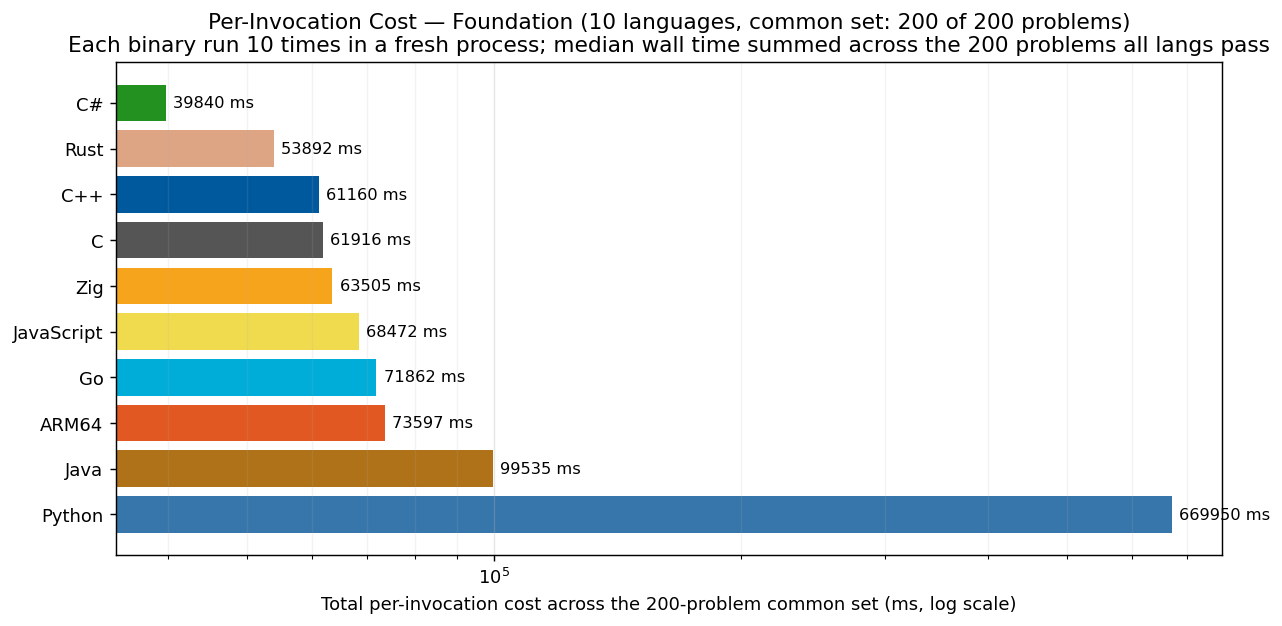
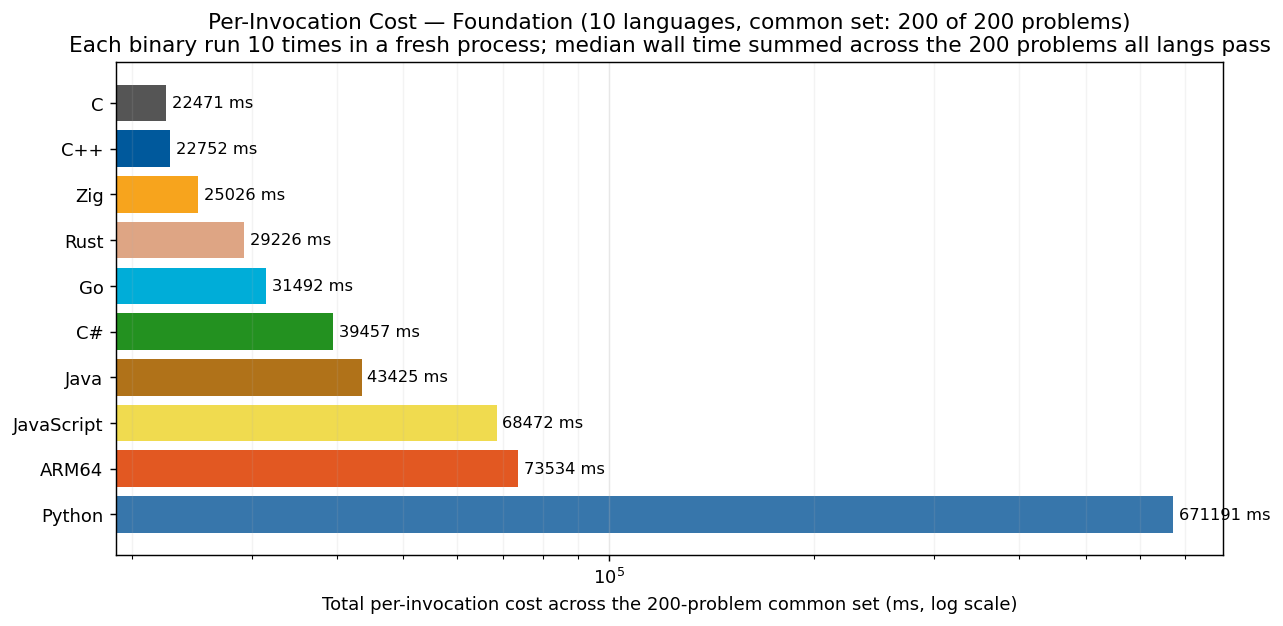
publish: p170 rewritten in 7 langs with JS-derived smart algorithm (descending-pandigital + sqrt-bounded divisor enum); 25-56s brute force → 4-10ms across the board (~8000× speedup); cross-lang answer 9857164023 verified

diff --git a/RESULTS.md b/RESULTS.md
@@ -25,16 +25,16 @@ covered ones.
 
 | Rank | Language | Total (200-problem common set) | Lines of code | vs Fastest |
 |------|----------|--------------------:|--------------:|-----------:|
-| 1 | **C#** | 39.84 s | 10,974 | 1.00× |
-| 2 | **Rust** | 53.89 s | 11,633 | 1.35× |
-| 3 | **C++** | 61.16 s | 10,390 | 1.54× |
-| 4 | **C** | 61.92 s | 14,488 | 1.55× |
-| 5 | **Zig** | 63.51 s | 13,559 | 1.59× |
-| 6 | **JavaScript** | 68.47 s | 9,310 | 1.72× |
-| 7 | **Go** | 71.86 s | 13,313 | 1.80× |
-| 8 | **ARM64** | 73.60 s | 40,336 | 1.85× |
-| 9 | **Java** | 99.54 s | 10,621 | 2.50× |
-| 10 | **Python** | 669.95 s | 8,544 | 16.82× |
+| 1 | **C** | 22.47 s | 14,524 | 1.00× |
+| 2 | **C++** | 22.75 s | 10,369 | 1.01× |
+| 3 | **Zig** | 25.03 s | 13,474 | 1.11× |
+| 4 | **Rust** | 29.23 s | 11,614 | 1.30× |
+| 5 | **Go** | 31.49 s | 13,225 | 1.40× |
+| 6 | **C#** | 39.46 s | 11,019 | 1.76× |
+| 7 | **Java** | 43.42 s | 10,611 | 1.93× |
+| 8 | **JavaScript** | 68.47 s | 9,310 | 3.05× |
+| 9 | **ARM64** | 73.53 s | 40,336 | 3.27× |
+| 10 | **Python** | 671.19 s | 8,558 | 29.87× |
 
 ### Speed vs Code Size
 

diff --git a/per_problem/per_problem_101-200.md b/per_problem/per_problem_101-200.md
@@ -76,7 +76,7 @@ column per language in tier-1 display order (native → managed → interpreted)
 | **p167** | 129.05 ms | 122.85 ms | 127.29 ms | 126.88 ms | 138.54 ms | 130.05 ms | 139.25 ms | 161.03 ms | 236.92 ms | 7.37 s |
 | **p168** | 32.0 µs | 25.5 µs | 21.7 µs | 31.5 µs | 27.3 µs | 33.1 µs | 248.5 µs | 197.8 µs | 274.0 µs | 533.3 µs |
 | **p169** | 1.0 µs | 167 ns | 208 ns | 2.0 µs | 208 ns | 10.7 µs | 411.8 µs | 533.3 µs | 40.0 µs | 13.9 µs |
-| **p170** | 39.50 s | 39.45 s | 38.41 s* | 24.67 s* | 38.48 s | 40.38 s | 392.34 ms* | 56.12 s* | 7.70 ms* | 357.90 ms |
+| **p170** | 39.43 s | 4.92 ms | 4.26 ms | 4.63 ms | 4.06 ms | 5.25 ms | 8.66 ms | 7.02 ms | 7.59 ms | 1.60 s |
 | **p171** | 2.90 ms | 1.46 ms | 2.05 ms | 2.20 ms | 2.14 ms | 3.20 ms | 4.00 ms | 7.25 ms | 20.31 ms | 150.21 ms |
 | **p172** | 3.0 µs | 2.1 µs | 3.3 µs | 4.1 µs | 2.5 µs | 6.5 µs | 614.7 µs | 41.0 µs | 122.8 µs | 118.7 µs |
 | **p173** | 10.02 ms | 536.7 µs | 634.2 µs | 621.5 µs | 590.8 µs | 740.6 µs | 1.11 ms | 9.07 ms | 3.50 ms | 92.81 ms |
